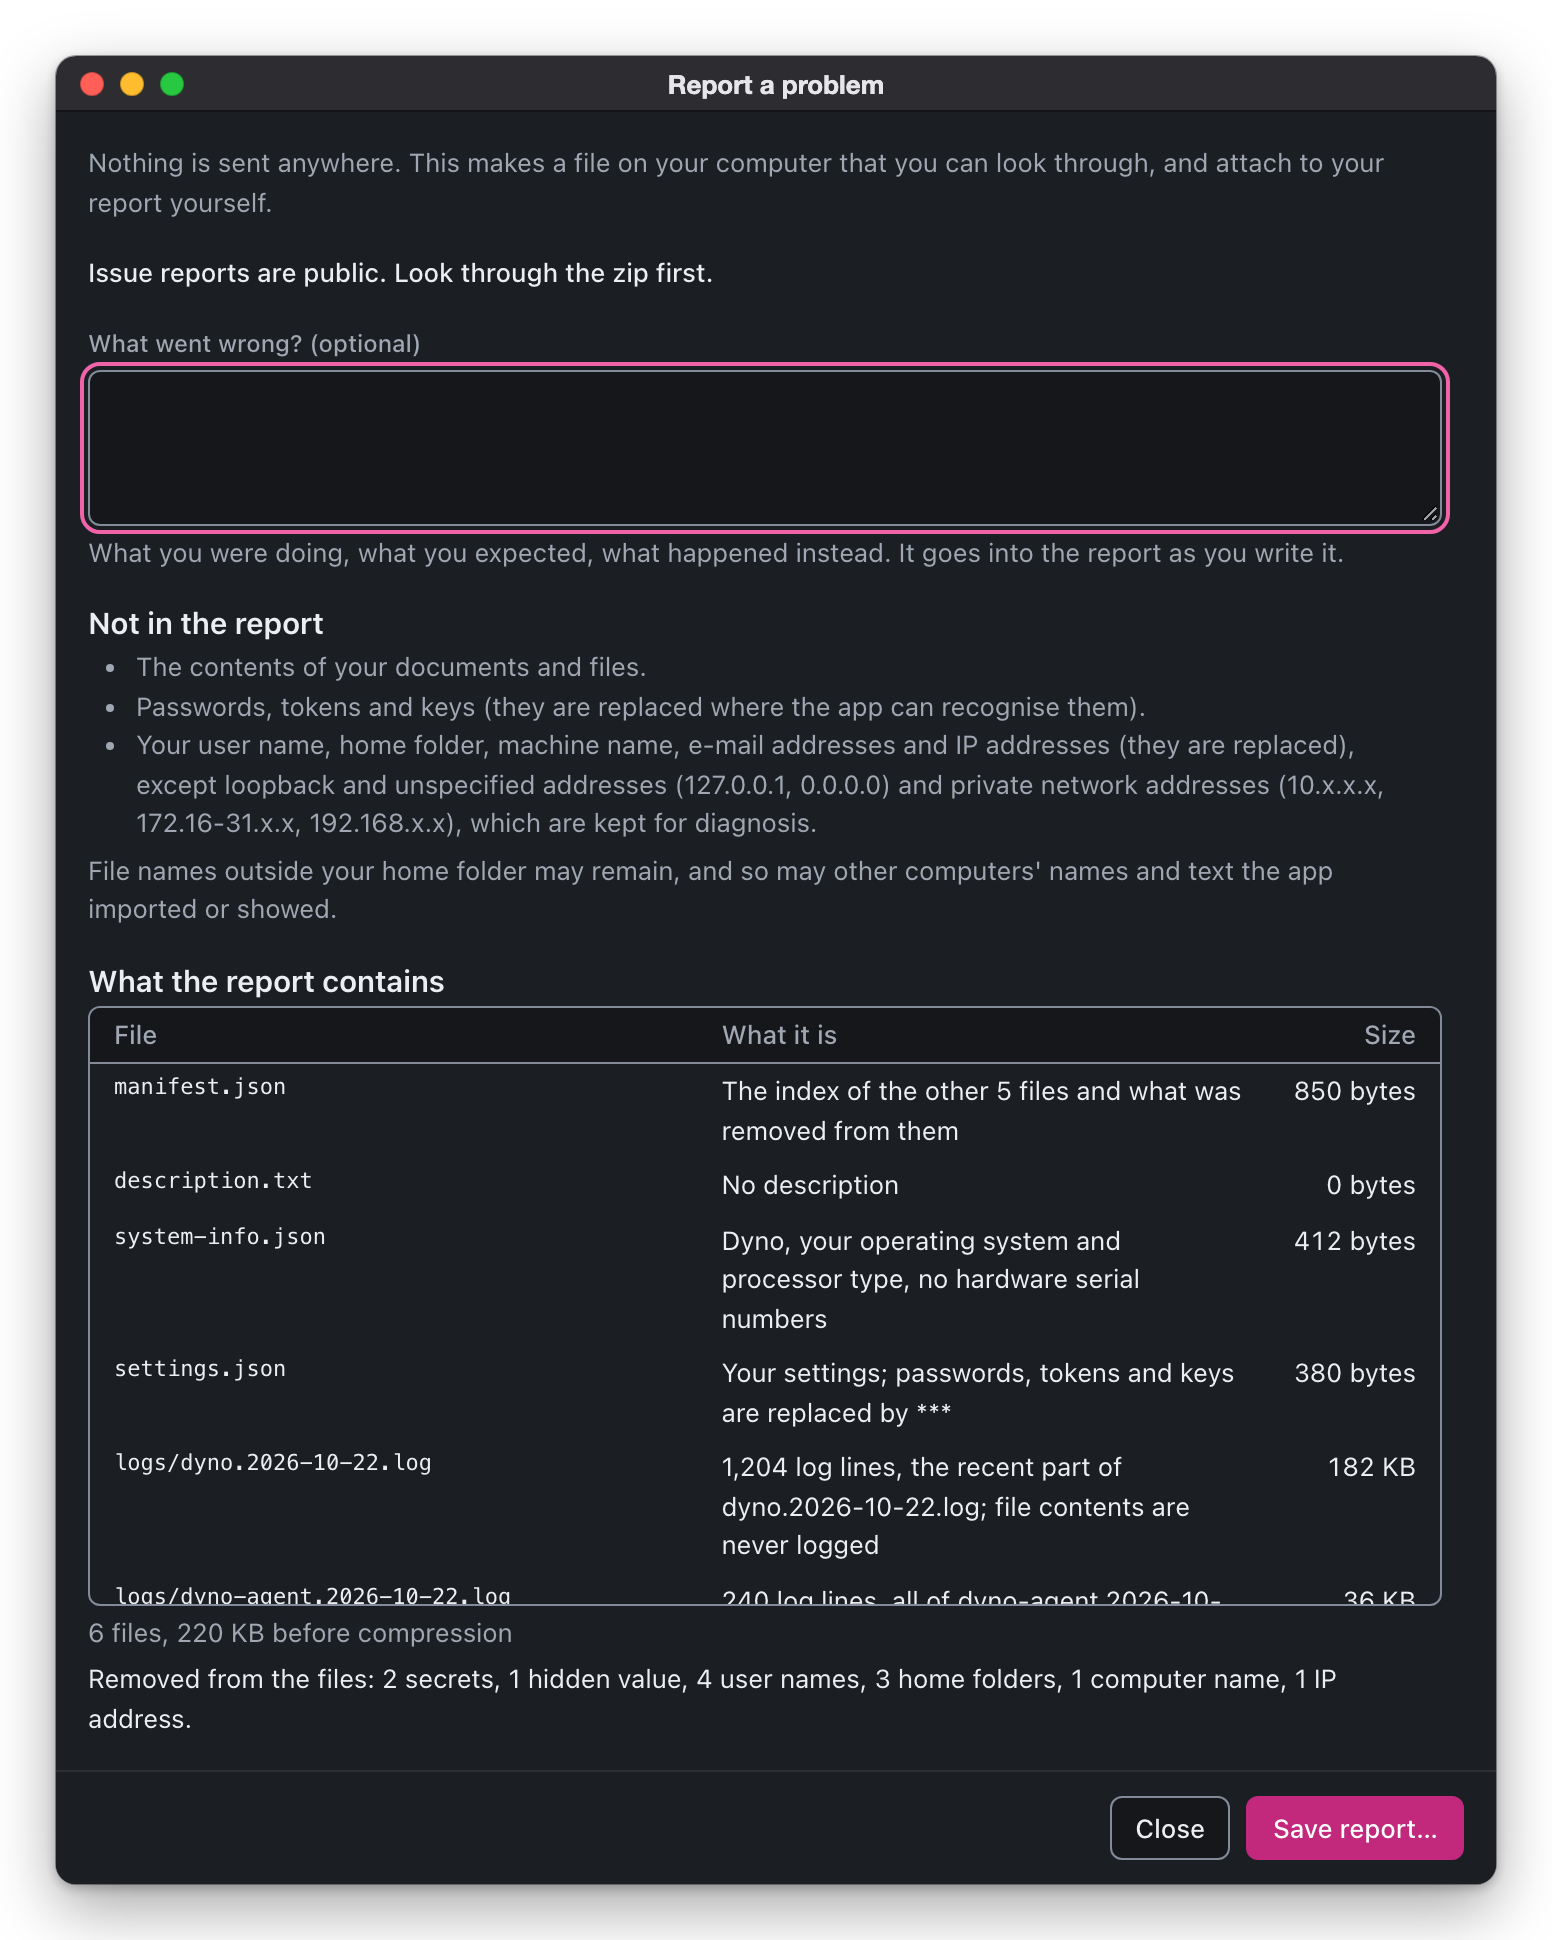
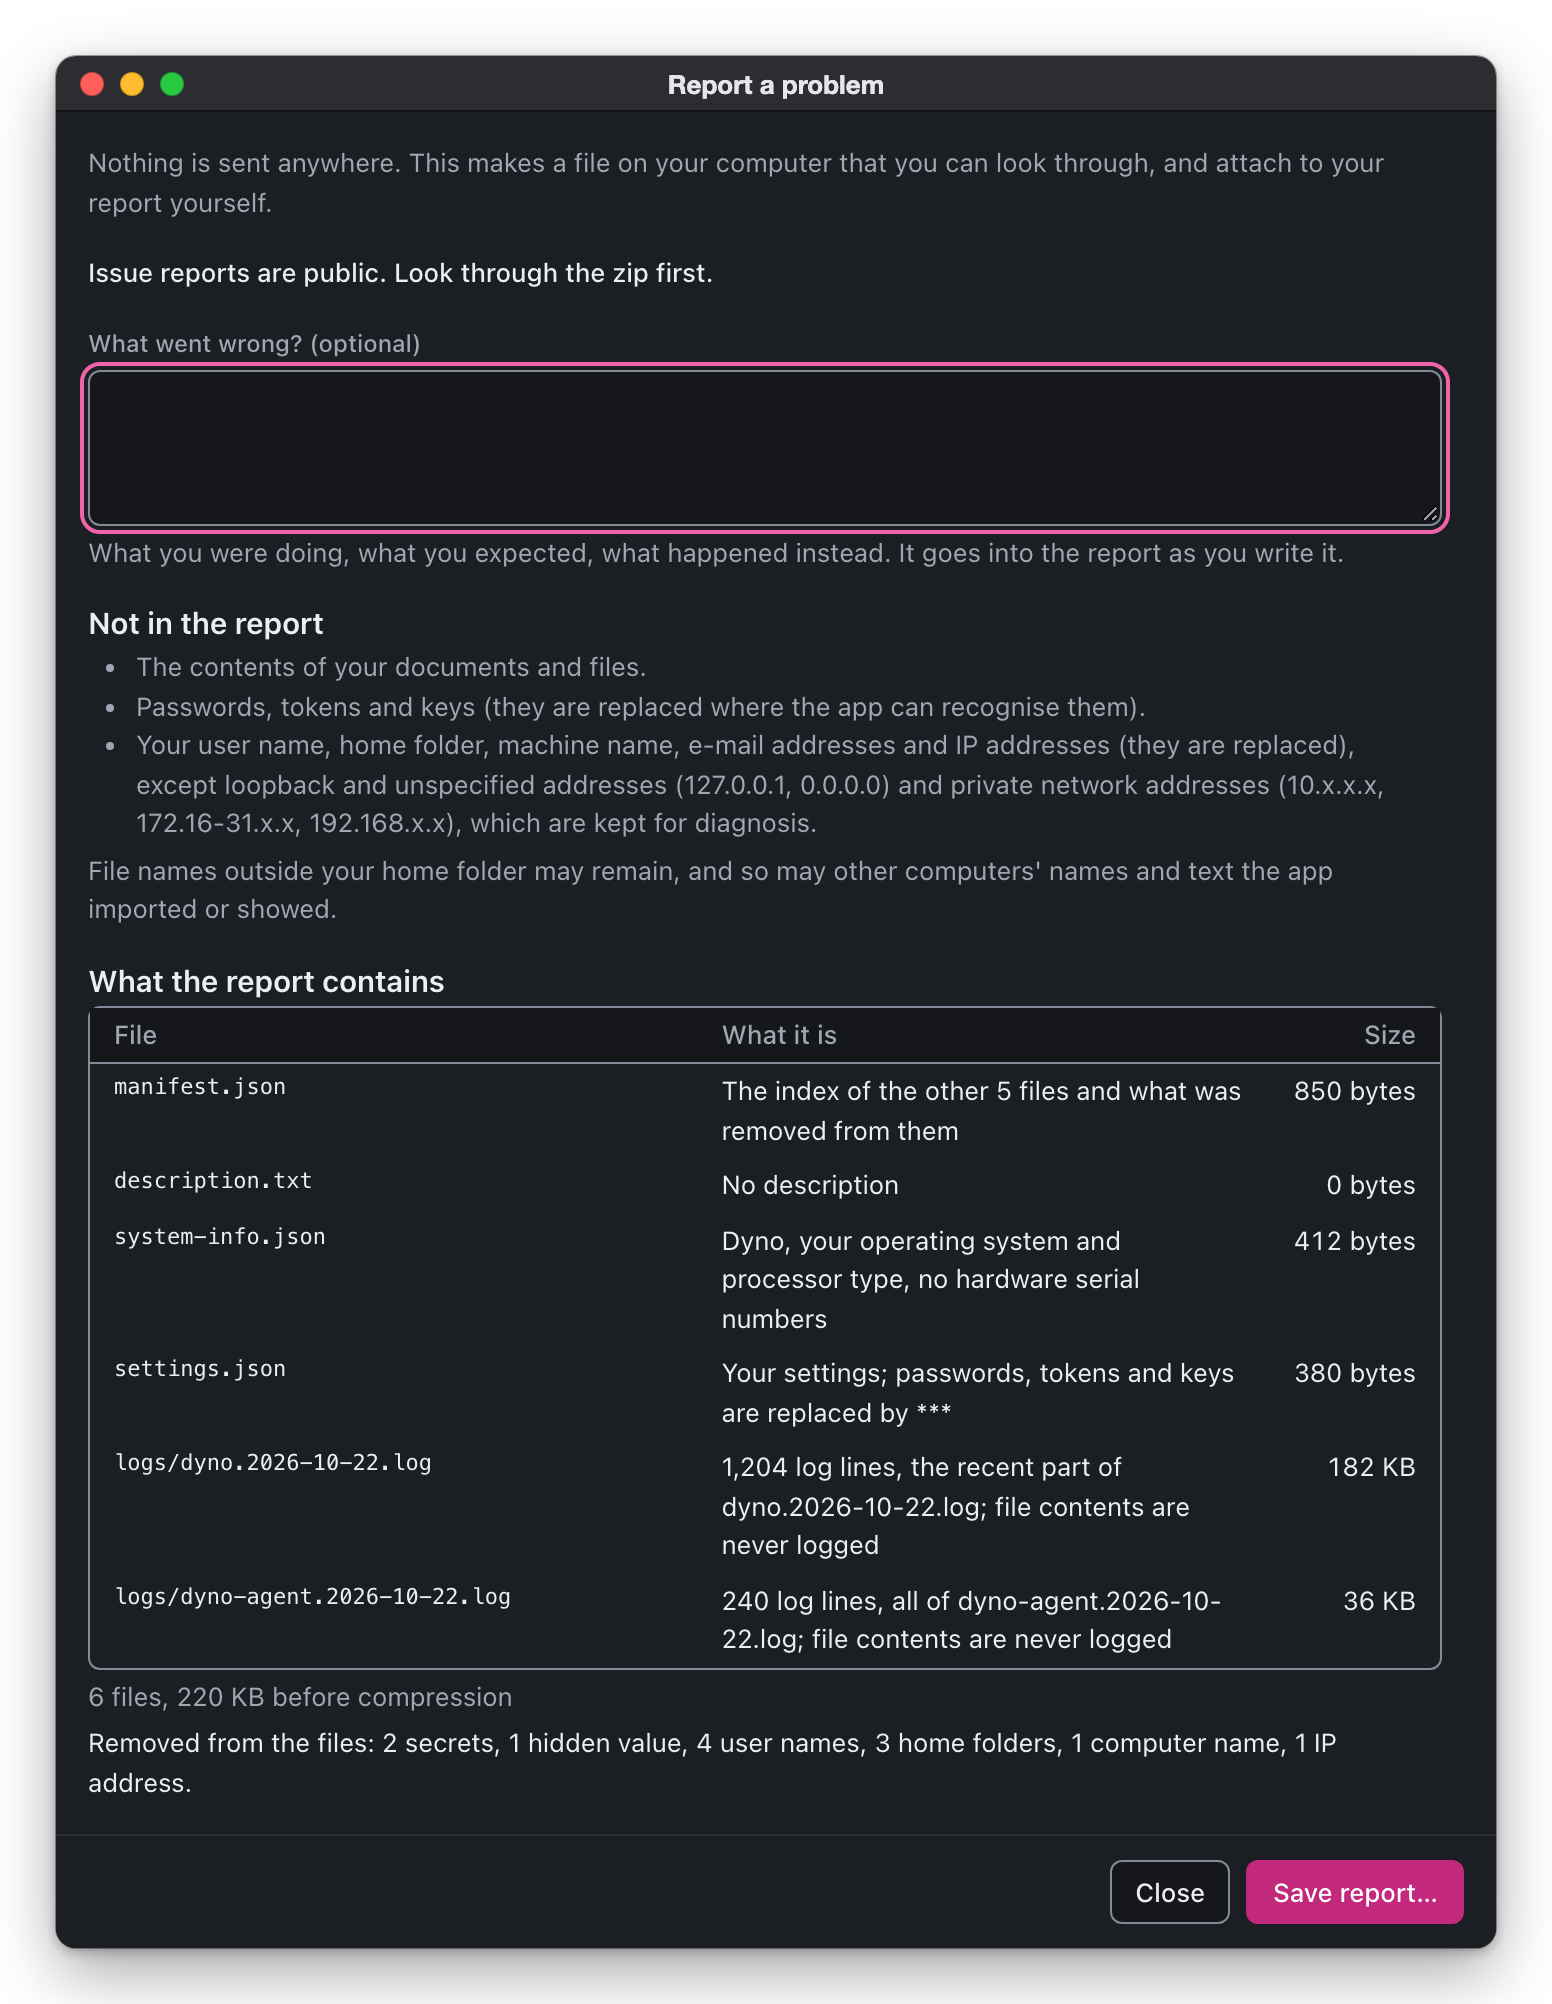
fix(dyno): the diagnostics bundle picture shows every file row
The files list scrolls in a 300 px box in the product, which cut the last row in two in the picture; the documentation spec lifts the box's limit in its window so the fitted height shows every row. The two diagnostics-bundle pictures and hashes.json are regenerated by the runner.

diff --git a/apps/dyno/app/e2e/screenshots-docs-dialogs.spec.ts b/apps/dyno/app/e2e/screenshots-docs-dialogs.spec.ts
@@ -15,11 +15,12 @@ const OUT = process.env['SCREENSHOT_DIR'] ?? join(process.cwd(), '..', 'docs', '
 const FROZEN = Date.UTC(2026, 9, 22, 14, 30, 0);
 
 /** The fitted-content dialogs: what shows that the content (not the skeleton) is there, then the size the window fits to. */
-const FITTED: { name: string; id: string; title: string; loaded: string; payload?: unknown }[] = [
+const FITTED: { name: string; id: string; title: string; loaded: string; payload?: unknown; css?: string }[] = [
   // A text that still reads well after the redaction of the user name and the address.
   { name: 'web-search', id: 'dy.web-search', title: 'Search the web: Slack', loaded: 'input[name=query]', payload: { text: 'Slack crashed EXC_BAD_ACCESS macOS 27 alex', subject: 'Slack' } },
   // Report a problem: the diagnostics bundle's preview, with the list of every file and its size.
-  { name: 'diagnostics-bundle', id: 'pd.report-problem', title: 'Report a problem', loaded: '[data-testid=diag-files]', payload: {} },
+  // The list of files scrolls in a 300 px box in the product; the picture shows every row, so none is cut in half.
+  { name: 'diagnostics-bundle', id: 'pd.report-problem', title: 'Report a problem', loaded: '[data-testid=diag-files]', payload: {}, css: '.pd-diag__scroller { max-height: none !important; overflow: visible !important; }' },
   { name: 'hash-search', id: 'dy.file-hash', title: 'Search the file hash on VirusTotal', loaded: 'code[aria-label="SHA-256 hash"]' },
 ];
 
@@ -62,6 +63,7 @@ const fitted = (d: (typeof FITTED)[number]): DocScreen => ({
     const route = dialogWindowUrl(d.id, d.payload ?? FIXTURES[d.id]![0] ?? {}, { title: d.title });
     const win = await openWindow(page, route, d.title, contract.width, 800);
     await expect(win.in.locator(d.loaded).first()).toBeVisible({ timeout: 15_000 });
+    if (d.css) await win.frame.addStyleTag({ content: d.css });
     await page.clock.runFor(1_000);
     let last = -1;
     await expect(async () => {
@@ -72,6 +74,7 @@ const fitted = (d: (typeof FITTED)[number]): DocScreen => ({
     }).toPass({ timeout: 10_000, intervals: [200, 200, 300] });
     const again = await openWindow(page, route, d.title, contract.width, last);
     await expect(again.in.locator(d.loaded).first()).toBeVisible({ timeout: 15_000 });
+    if (d.css) await again.frame.addStyleTag({ content: d.css });
     await expect(again.in.locator('[data-testid=dialog-footer]')).toBeVisible();
     await page.clock.runFor(1_000);
   },
